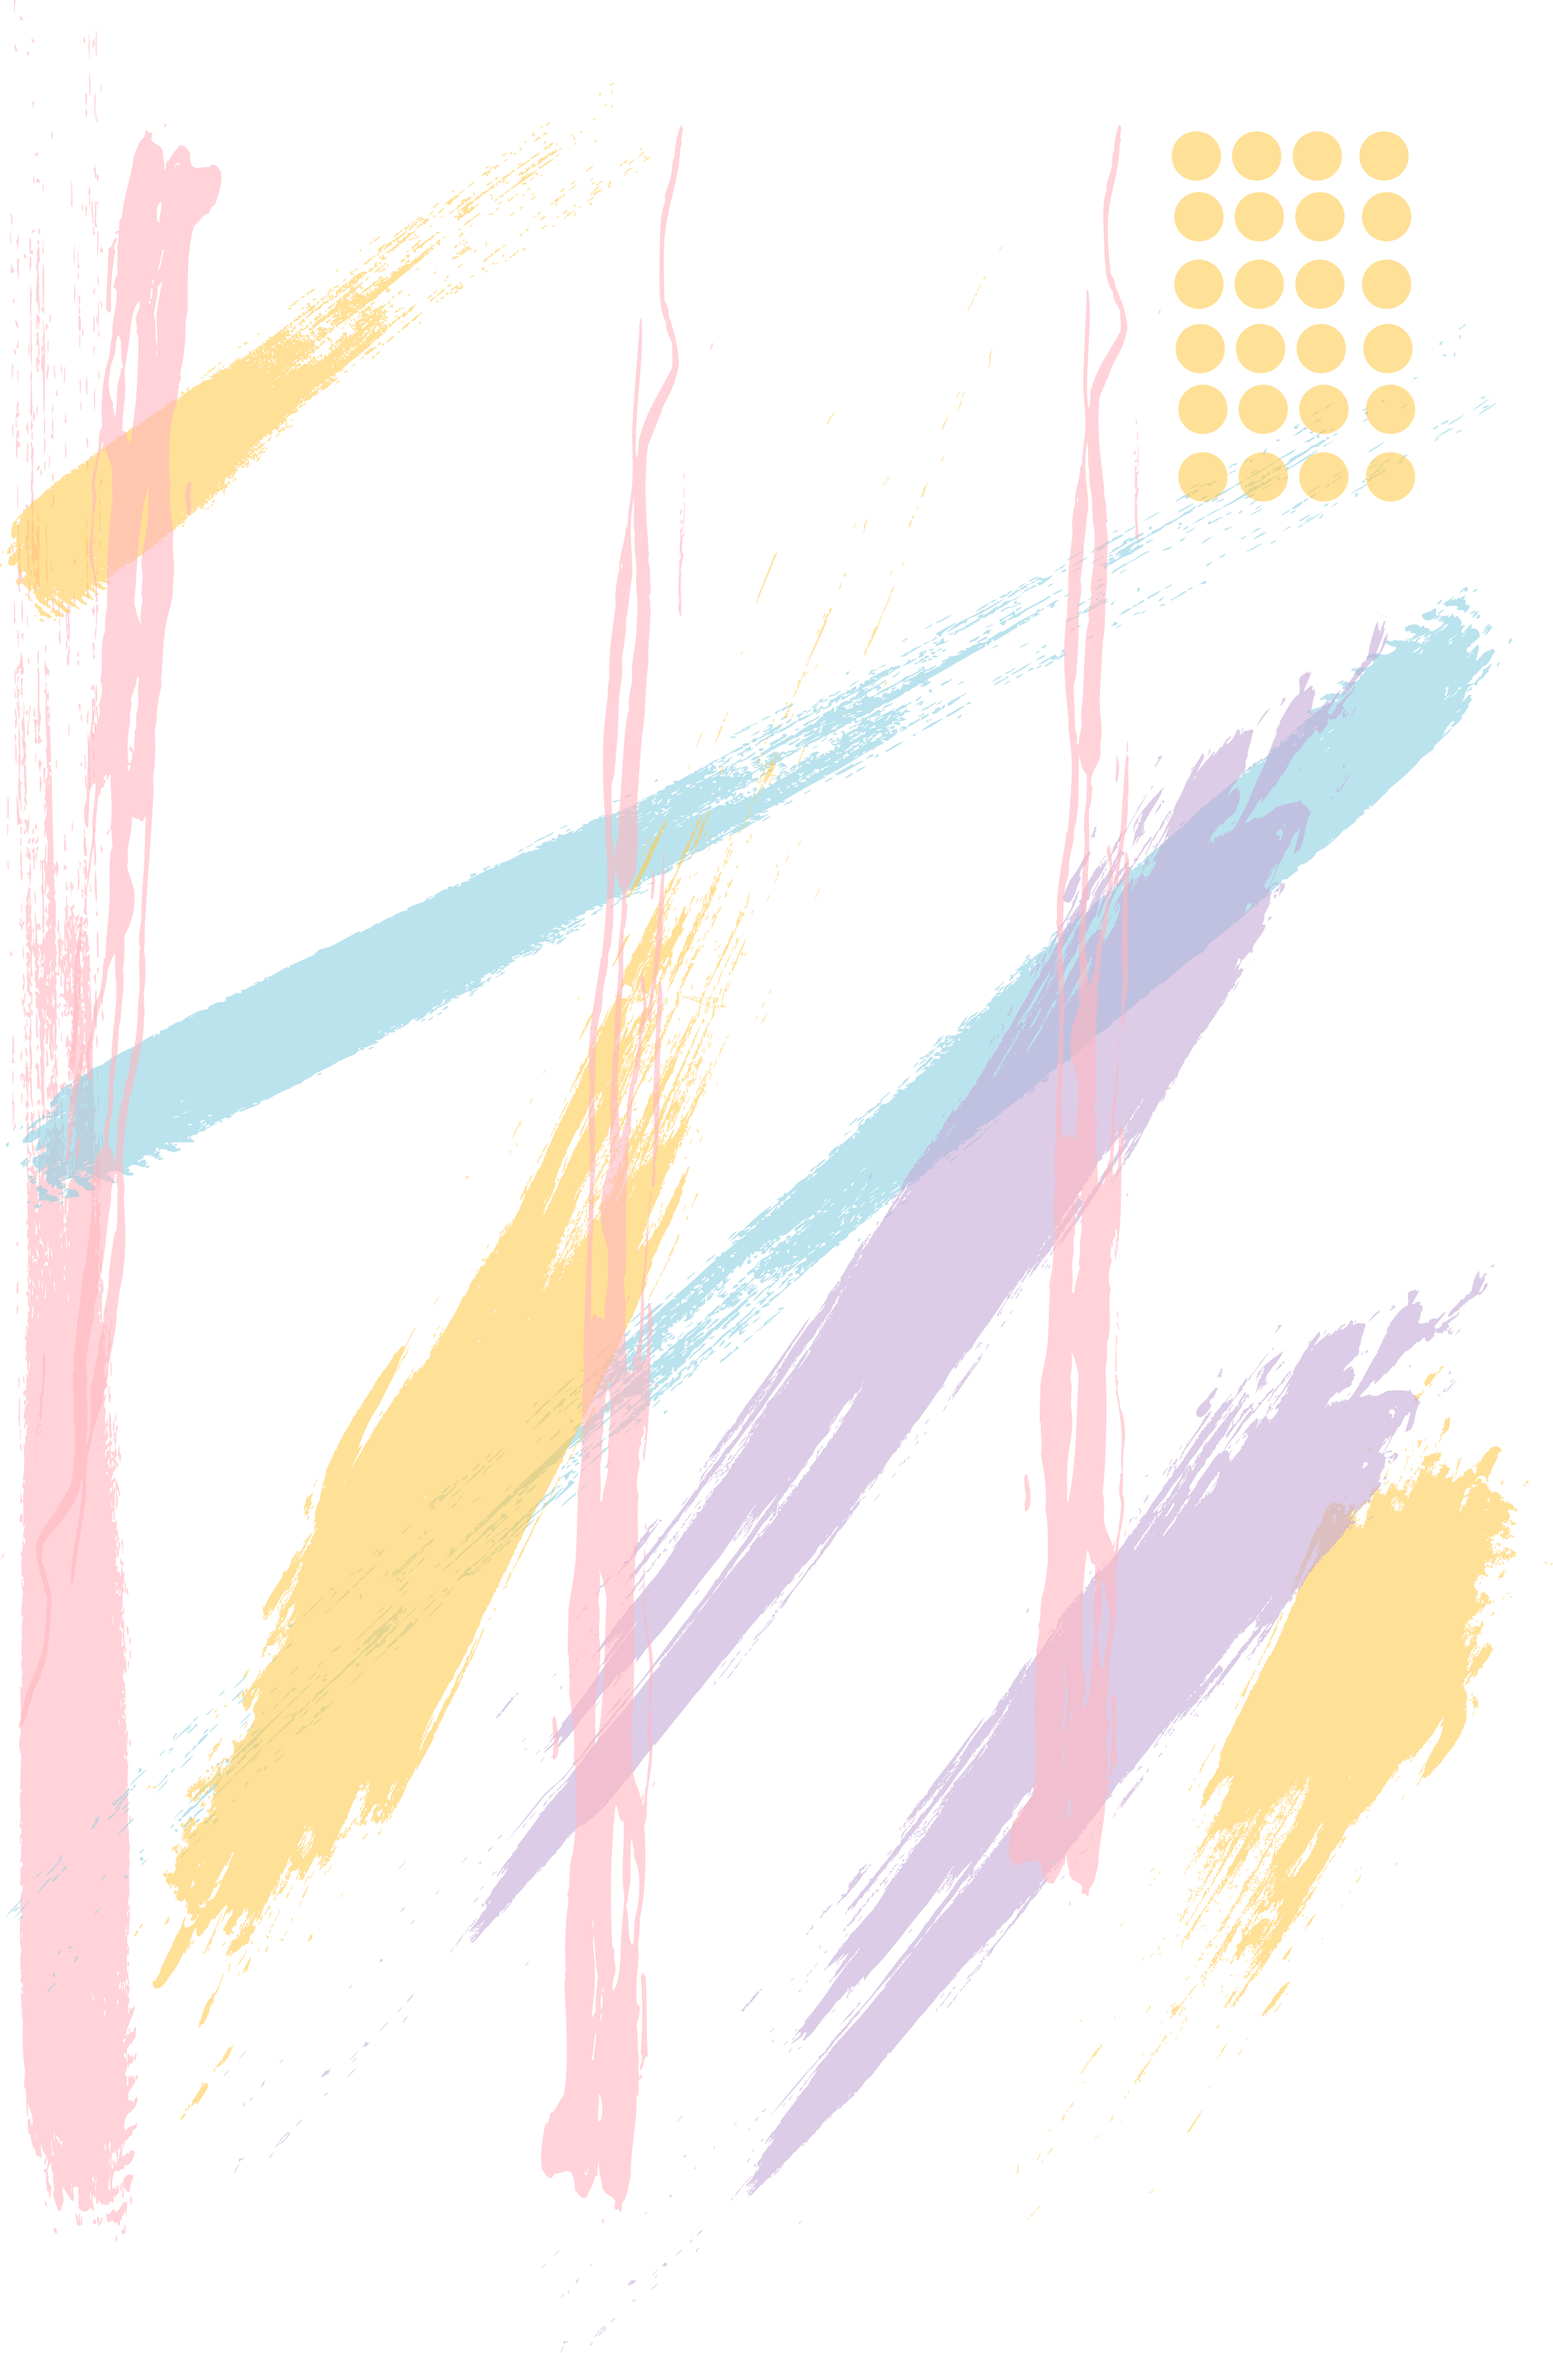
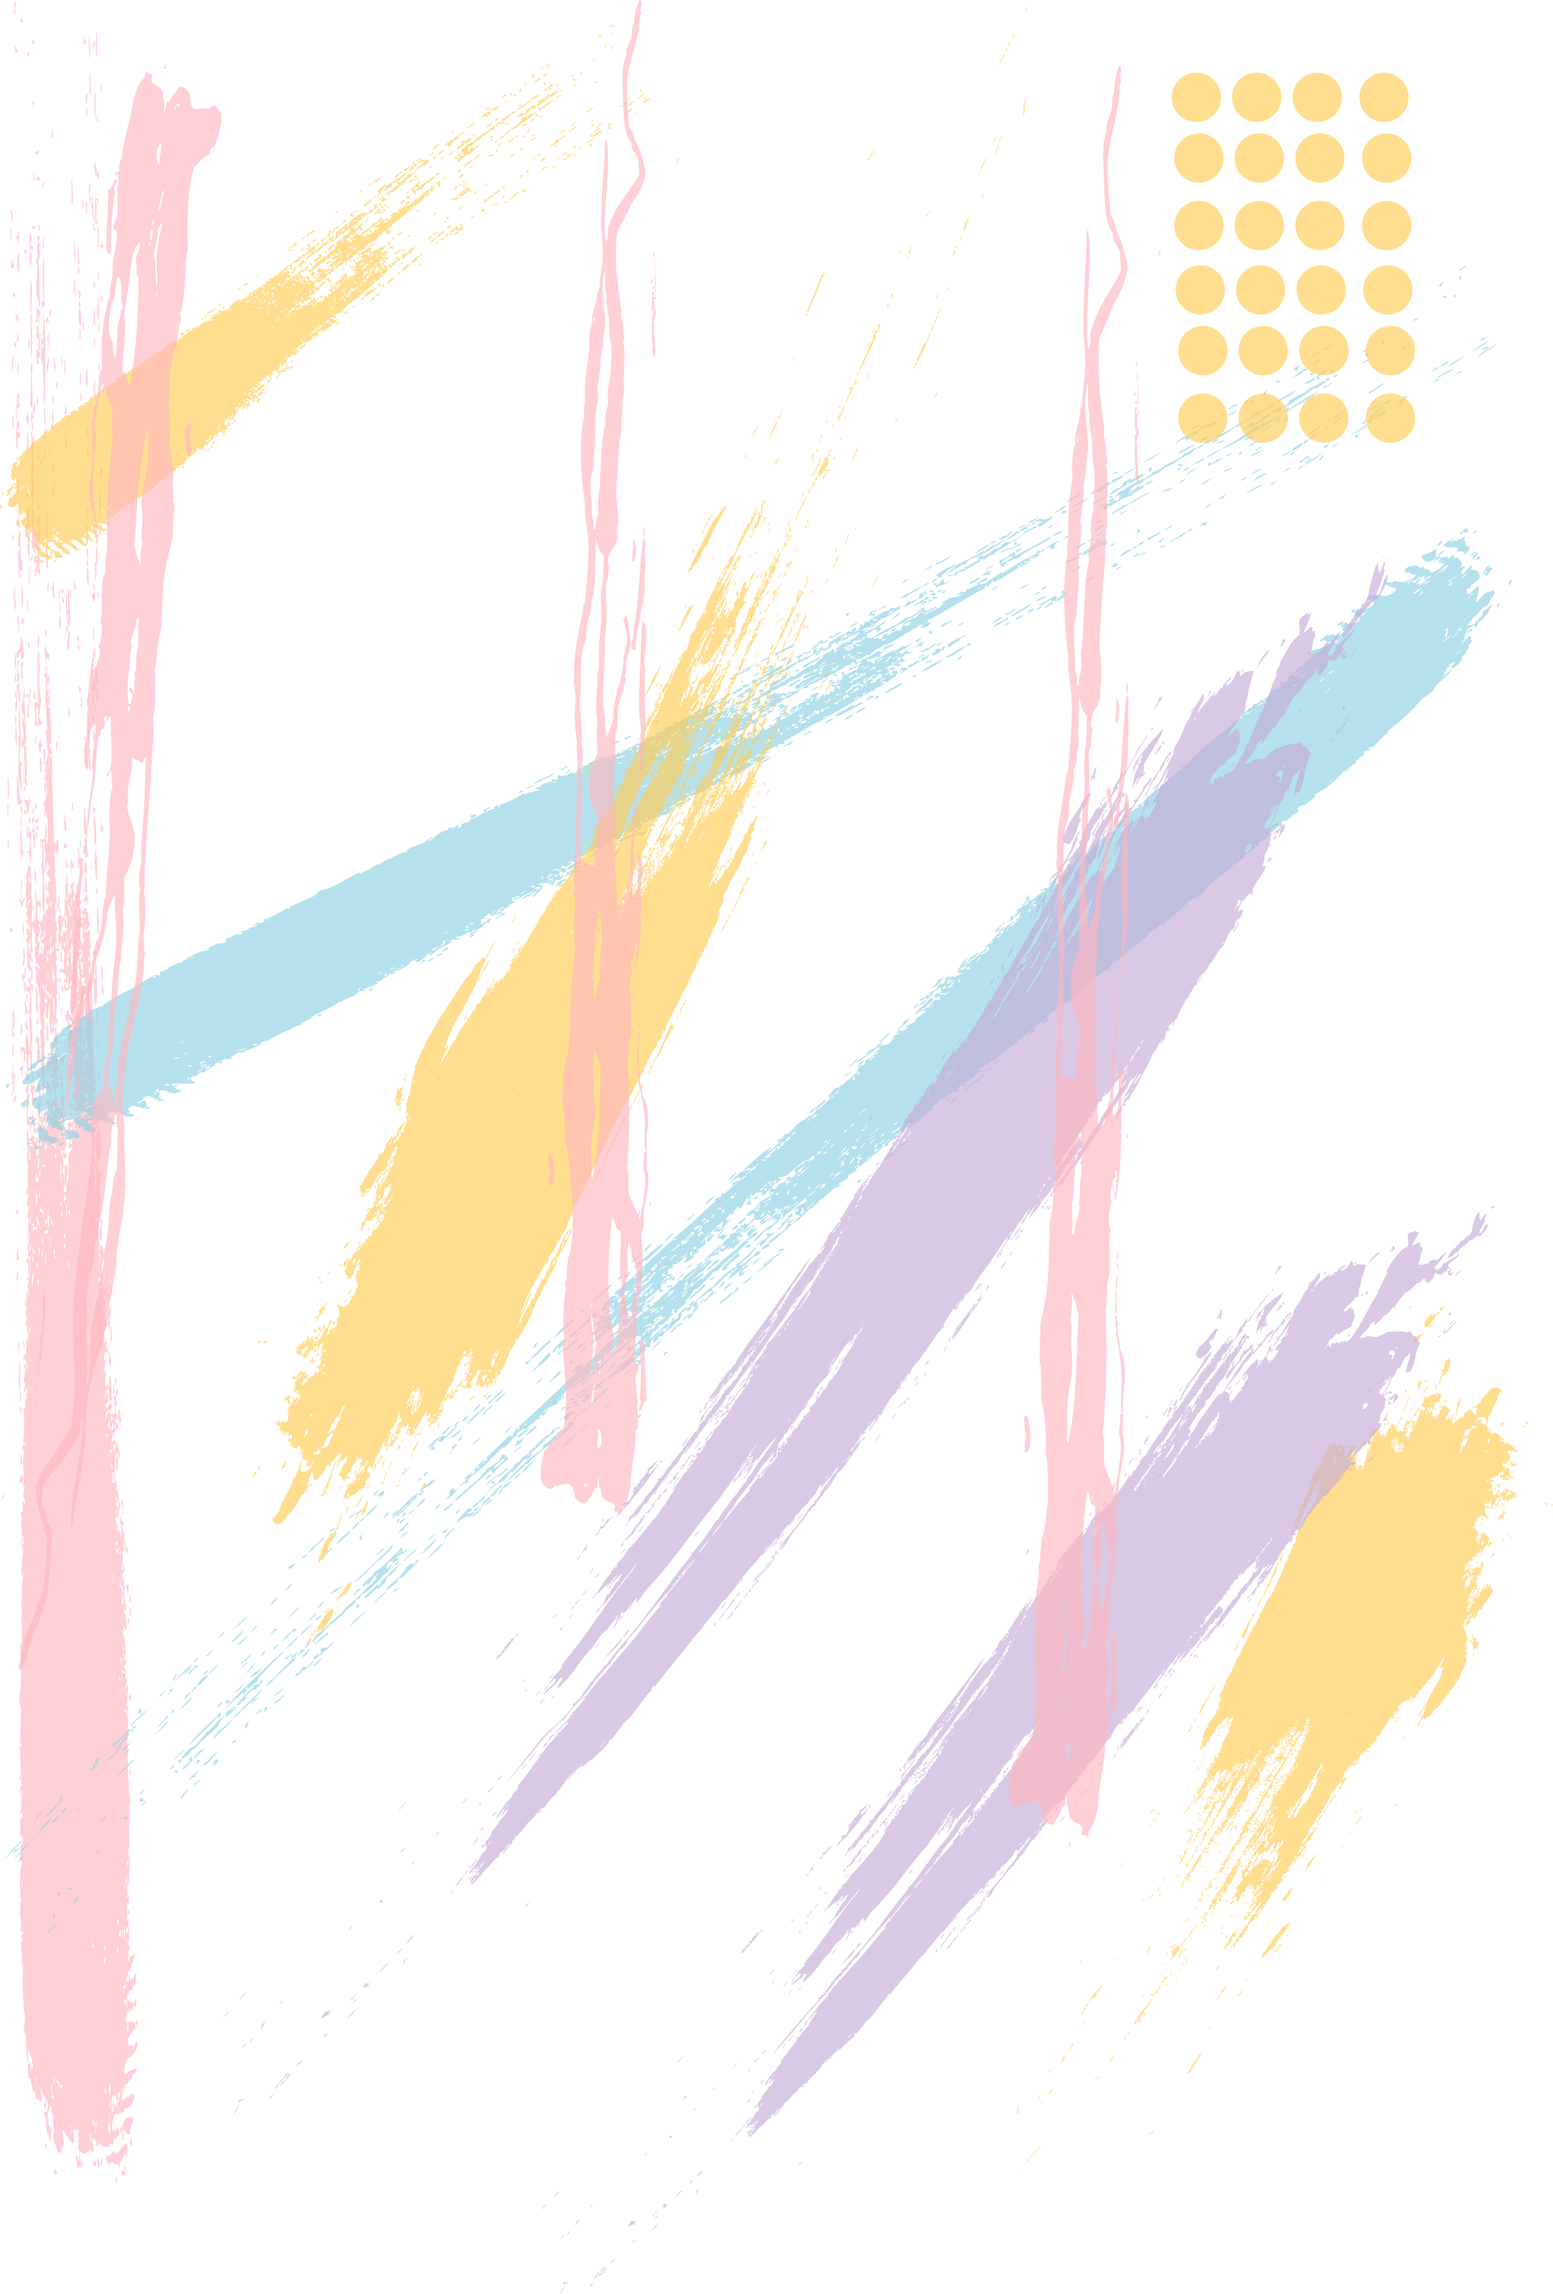
Fondos acomodados

diff --git a/css/index.css b/css/index.css
@@ -8,6 +8,7 @@
   flex-wrap: wrap;
   flex-direction: row;
   background-image: url(../img/Fondos/FondoSeccionesUno.png);
+  background-size: cover;
 }
 
 .intro-imagen {
@@ -77,7 +78,7 @@
   display: flex;
   flex-wrap: wrap;
   justify-content: center;
-  background-image: url(../img/Fondos/FondoSeccionesUno.png);
+
 }
 
 .products .titulo-seccion h2 {
@@ -131,6 +132,7 @@ button {
     flex-wrap: wrap;
     flex-direction: row;
     background-image: url(../img/Fondos/FondoSeccionesTres.png);
+    background-size: auto;
     }
 
   .intro-imagen {
